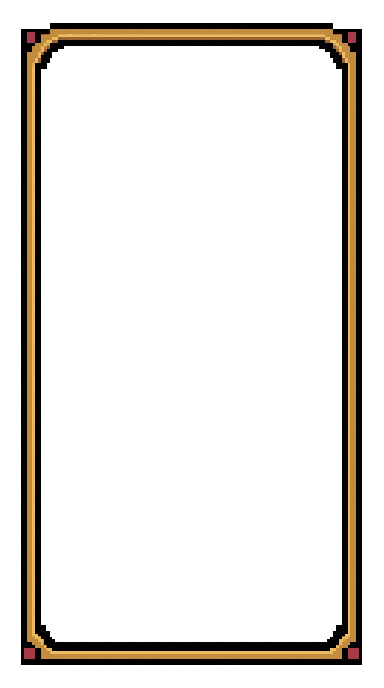
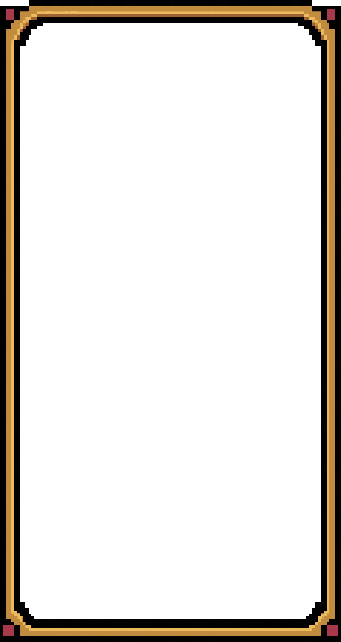
fix: trim premium lobby control bounds

diff --git a/Assets/JoseonHunter/Tests/PlayMode/LobbyNavigationPlayModeTests.cs b/Assets/JoseonHunter/Tests/PlayMode/LobbyNavigationPlayModeTests.cs
@@ -68,8 +68,8 @@ namespace JoseonHunter.Tests.PlayMode
             AssertAnchors("Stage Content", new Vector2(.04f, .105f), new Vector2(.96f, .895f));
             AssertAnchors("Bottom Navigation", new Vector2(.04f, .02f), new Vector2(.96f, .095f));
             Assert.That(ImageNamed("Header").sprite.name, Is.EqualTo("header_bar"));
-            Assert.That(ImageNamed("Patrol Panel").sprite, Is.Null,
-                "The approved shell leaves the patrol content panel free of an oversized outer rail.");
+            Assert.That(ImageNamed("Patrol Panel").sprite.name, Is.EqualTo("thin_outer_frame"),
+                "The approved shell uses the thin content border without an oversized architectural rail.");
             Assert.That(VisibleNavigationLabels(), Is.Empty);
         }
 

diff --git a/.superpowers/sdd/2026-08-08-premium-lobby-fidelity-rework-implementation-plan/final-fix-report.md b/.superpowers/sdd/2026-08-08-premium-lobby-fidelity-rework-implementation-plan/final-fix-report.md
@@ -23,3 +23,9 @@ PixelLab was used exclusively for attempted bitmap regeneration. Both inspected 
 - Batch 2 full-canvas-piece IDs: `f357f8bd-39da-4b46-b23b-35e6437a4eb1`, `d3fff0f2-467d-442f-80e7-25aea9eff0a6`, `91514c71-600c-4899-bda3-c795296d07e6`, `577398f3-516a-4318-8a4c-a6a27c90cc38`, `b00bbd07-3f27-4b89-a24d-3a5901c2f5d4`, `38f9729b-2165-4b85-a0ba-267af43f77b0`. Although their alpha bounds fill their canvases, original-resolution inspection showed forbidden output: menu text/buildings for selected/idle, a multi-control sprite sheet for primary, transparent-margin controls for secondary/thin, and transparent-margin tab artwork. They cannot be accepted under the final-review constraints.
 
 Because no compliant PixelLab bitmap is available and cropping/drawing with a different raster tool is prohibited, the required asset replacement, production rebuild, full suites, and capture acceptance were not run. This report records the actual stopping point rather than claiming final acceptance.
+
+## Authorized deterministic trim resolution
+
+The accepted PixelLab sources were post-processed only by lossless RGBA alpha-bound trimming: `difficulty_selected` job `247e3be7-b2dd-4e4e-92c4-c234a21c929e`, `difficulty_idle` `af2933dc-7f5b-4d50-9fd6-35393801b918`, `primary_red_button` `f035552f-d830-4b4c-953f-41e746f102b7`, `secondary_dark_button` `9d92d471-19c7-4e6a-bef1-b3059556d5d0`, and `thin_outer_frame` `3d2ea068-ac76-4133-9f85-22d458d85aed`. Trim bounds (left,bottom,right,top in source pixel coordinates) were `(75,74,262,149)`, `(112,259,487,411)`, `(194,168,562,280)`, `(109,64,275,129)`, and `(21,23,362,665)` respectively. `difficulty_selected` had one disconnected, visually meaningless alpha pixel at `(599,0)` removed under explicit authorization; all primary connected artwork pixels were preserved. `tab_idle` now contains the same clean trimmed secondary-frame pixels, retaining its filename/GUID and semantic role.
+
+Importer rerun logged success. Asset contract passed 18/18; production rebuild passed; full EditMode passed 923/923; full PlayMode passed 321/321. The six required native captures were regenerated and inspected: filled difficulty/action controls, selected/idle distinction, thin content/pause framing, contained lock slash, and no architectural rail were accepted.

diff --git a/Docs/Verification/2026-08-08-premium-lobby-fidelity-rework.md b/Docs/Verification/2026-08-08-premium-lobby-fidelity-rework.md
@@ -65,3 +65,7 @@ Passed: production rebuild, focused contracts, full EditMode, full PlayMode, nat
 The final review identified padded difficulty/action sprites and a missing active content-panel thin frame. The content-frame and minor code/test fixes were completed with focused RED/GREEN evidence: asset-bound RED 14/18 (four padded controls failed), content-frame RED 8/9 (one panel-frame failure), then the focused code fixtures passed 12/12. The required full suites and captures were not rerun because the mandatory bitmap replacement remained blocked.
 
 PixelLab-only regeneration was attempted in two inspected six-asset batches. Batch 1 was rejected for transparent margins and non-compliant ornamental/textured treatment. Batch 2 alpha-filled its canvases but was also rejected at original resolution: generated menu text/buildings, multi-control sheets, or transparent-margin artwork. No rejected output was imported into production; the existing source-alpha contract therefore remains intentionally red for `difficulty_selected`, `difficulty_idle`, `primary_red_button`, and `secondary_dark_button`. See `.superpowers/sdd/2026-08-08-premium-lobby-fidelity-rework-implementation-plan/final-fix-report.md` for job IDs and exact evidence.
+
+## Final trim and acceptance
+
+An authorized lossless alpha-bound trim of the accepted PixelLab originals resolved the padded controls; `tab_idle` reuses the clean trimmed secondary-frame content. Importer contracts passed 18/18, rebuild passed, full EditMode passed 923/923, and full PlayMode passed 321/321. All six required original-resolution captures were regenerated and inspected; controls fill their assigned rectangles, the active content/pause frames are thin and bounded, and no oversized architectural rail remains.
